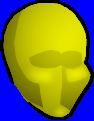
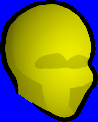
Editing + pruning the portrait generator facial bits

diff --git a/gears/personality.py b/gears/personality.py
@@ -78,7 +78,7 @@ class FelineMutation(Singleton):
         sl[stats.Speed] += 2
         sl[stats.Body] -= 2
         if pc.portrait_gen and random.randint(1,3) == 1:
-            pc.portrait_gen.color_channels[1] = color.HAIR_COLORS
+            pc.portrait_gen.color_channels[1] = color.HAIR
 
 class DraconicMutation(Singleton):
     name = "Draconic Mutation"
@@ -88,8 +88,8 @@ class DraconicMutation(Singleton):
         sl[stats.Charm] -= 2
         sl[stats.Body] += 2
         if pc.portrait_gen:
-            pc.portrait_gen.color_channels[1] = color.MECHA_COLORS
-            pc.portrait_gen.color_channels[2] = color.METAL_COLORS
+            pc.portrait_gen.color_channels[1] = color.MECHA
+            pc.portrait_gen.color_channels[2] = color.METAL
 
 class GeneralMutation(Singleton):
     name = "Mutation"
@@ -100,7 +100,7 @@ class GeneralMutation(Singleton):
         sl[s1] -= 2
         sl[s2] += 2
         if pc.portrait_gen:
-            pc.portrait_gen.color_channels[1] = color.ALL_COLORS
-            pc.portrait_gen.color_channels[2] = color.ALL_COLORS
+            pc.portrait_gen.color_channels[1] = color.DETAILS
+            pc.portrait_gen.color_channels[2] = color.DETAILS
 
 MUTATIONS = (FelineMutation,DraconicMutation,GeneralMutation)

diff --git a/main.py b/main.py
@@ -118,9 +118,9 @@ def play_the_game():
     #pygame.image.save(mypic.bitmap, pbge.util.user_dir("out.png"))
 
     #mypor = gears.portraits.Portrait()
-    #mypor.bits = ["FBA JustBod",]
+    #mypor.bits = ["FBA NoBody","Haywire B3 Head"]
     #mypic = mypor.build_portrait(None,False,True)
-    #pygame.image.save(mypic.bitmap, pbge.util.user_dir("FBA JustBod.png"))
+    #pygame.image.save(mypic.bitmap, pbge.util.user_dir("out.png"))
 
     tsrd = TitleScreenRedraw()
     mymenu = pbge.rpgmenu.Menu(TitleScreenRedraw.MENU_DEST.dx,

diff --git a/gears/portraits.py b/gears/portraits.py
@@ -177,7 +177,7 @@ class PortraitLayer(object):
         for k, v in kwargs.items():
             setattr(self, k, v)
 
-    LAYER_OFFSETS = {"left_eye": "head", "right_eye": "head", "mouth": "head", "ear": "head"}
+    LAYER_OFFSETS = {"left_eye": "head", "right_eye": "head", "mouth": "head", "ear": "head", "nose": "head"}
 
     def get_rect(self, limage, canvas, anchors):
         mydest = limage.get_rect(self.frame)

diff --git a/game/chargen/__init__.py b/game/chargen/__init__.py
@@ -150,6 +150,8 @@ class PortraitEditorW(pbge.widgets.Widget):
             elif ev.type == pygame.KEYDOWN:
                 if ev.key == pygame.K_ESCAPE:
                     keepgoing = False
+                elif ev.key == pygame.K_F1:
+                    pygame.image.save(myui.pc.portrait.bitmap, pbge.util.user_dir("out.png"))
 
         pbge.my_state.widgets.remove(myui)
 
